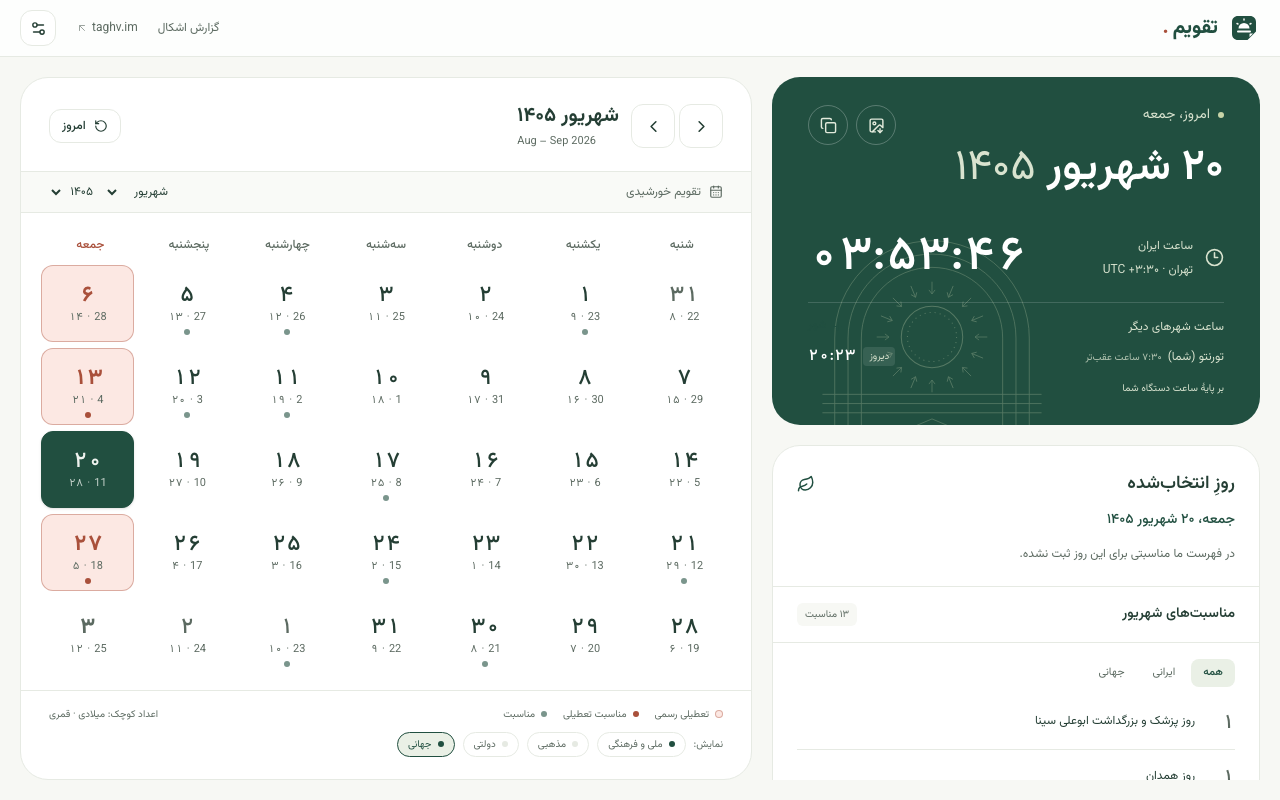
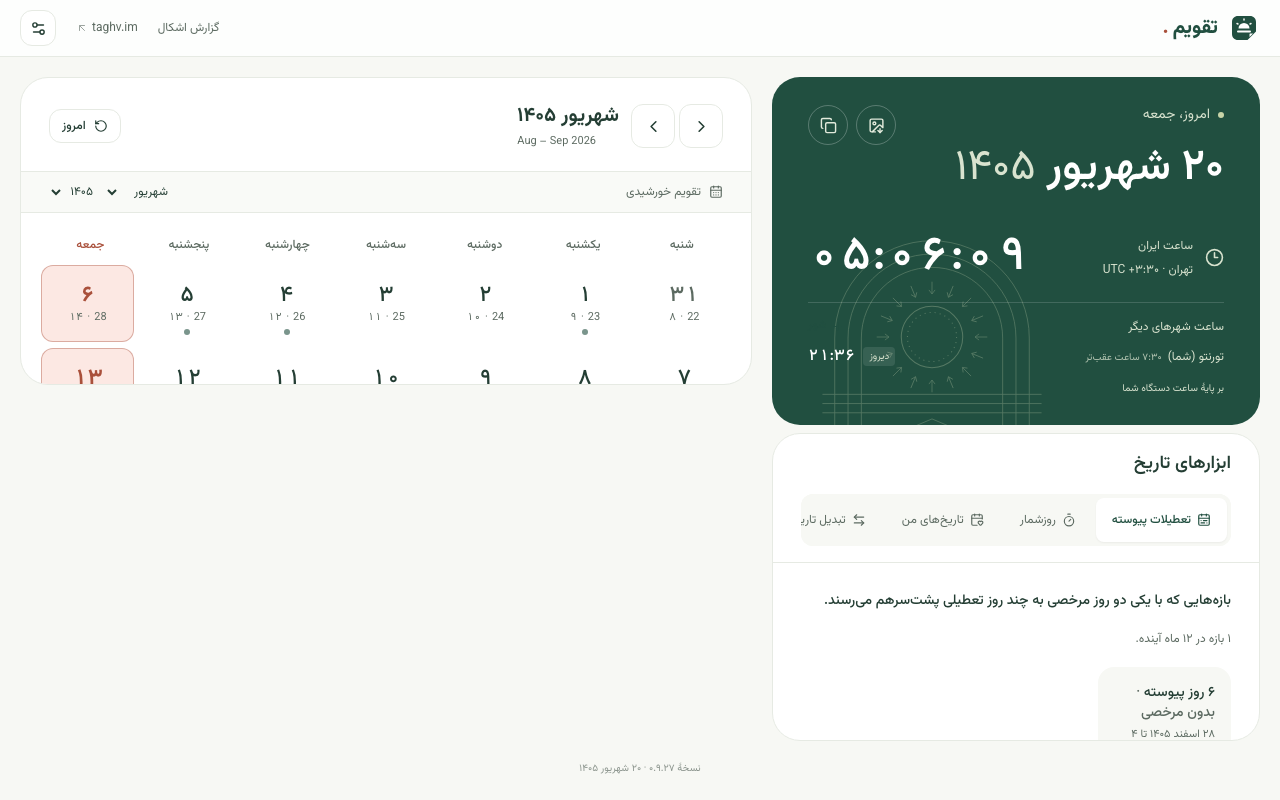
Give the extension's tools box both columns
Caught from the store screenshot the packaging script regenerated, not from a
report: the tools box went into the new tab as a third child of a two-column
grid, so it landed in the narrow column. The tab strip got 324px for the 726 it
needs, and four of the six tabs — تاریخهای من, تبدیل تاریخها, فاصلهٔ دو تاریخ,
محاسبهٔ سن — sat behind a horizontal scroll with nothing on screen to say so.
Measured, then fixed: the box spans both columns and all six are reachable.

The browser test now asserts no tab falls outside the strip's own box, which is
the check that would have caught this before the screenshot did.

Store screenshots regenerated with the tools box and the version footer in them,
since both are new to what a visitor sees.

diff --git a/extension/src/new-tab.tsx b/extension/src/new-tab.tsx
@@ -144,10 +144,15 @@ export function NewTab() {
           onJump={(year, month) => { followingToday.current = false; setView({ year, month, day: 1 }); }}
         />
         {/* The same tools box the site carries: nothing here touches a network, and the
-            bridges link is the only thing that leaves, to taghv.im by an absolute URL. */}
-        <ToolsPanel now={now} tab={tool} onTabChange={setTool} groups={preferences}
-          dates={dates} datesReady={datesReady} onDatesChange={commitDates}
-          bridgesHref="https://taghv.im/bridges" datesNotice={DATES_NOTICE_EXTENSION} />
+            bridges link is the only thing that leaves, to taghv.im by an absolute URL.
+            It spans BOTH columns. Dropped into the narrow one it got 324px for a tab
+            strip that needs 726, and four of the six tabs sat behind a scroll with
+            nothing on screen to say so. */}
+        <div className="lg:col-span-2">
+          <ToolsPanel now={now} tab={tool} onTabChange={setTool} groups={preferences}
+            dates={dates} datesReady={datesReady} onDatesChange={commitDates}
+            bridgesHref="https://taghv.im/bridges" datesNotice={DATES_NOTICE_EXTENSION} />
+        </div>
       </main>
       {/* Which build this is. Farjad asked for it: the store rolls updates out over
           hours, so «am I on the new one» is otherwise unanswerable from the page. */}

diff --git a/src/lib/changelog.ts b/src/lib/changelog.ts
@@ -1,6 +1,6 @@
 // ============================================================================
 // Source: src/lib/changelog.ts
-// Version: 0.11.4 — 2026-09-10
+// Version: 0.11.5 — 2026-09-10
 // Why: The release history and the shortlist of what is being considered next,
 //      as data. Rendered by /changelog; nothing else reads it.
 //      WRITTEN FOR VISITORS, NOT FOR US. Work that changes nothing a visitor can
@@ -37,6 +37,15 @@ export const CHANGE_LABELS: Record<ChangeKind, string> = {
 
 // Newest first. Add a release here in the same commit that ships it.
 export const RELEASES: Release[] = [
+  {
+    version: '0.9.28',
+    at: '2026-09-10T22:20:00-04:00',
+    status: 'ready',
+    title: 'جای ابزارها در افزونه',
+    changes: [
+      { kind: 'fixed', text: 'جعبهٔ ابزار در افزونه توی ستون باریک افتاده بود و چهار تب از شش تب پشت اسکرول پنهان میشد. حالا کل عرض را میگیرد.' },
+    ],
+  },
   {
     version: '0.9.27',
     at: '2026-09-10T21:55:00-04:00',

diff --git a/tests/extension.spec.ts b/tests/extension.spec.ts
@@ -72,6 +72,17 @@ test("carries the same tools box, with its own separate list of dates", async ({
     await expect(page.getByRole("tab", { name })).toBeVisible();
   }
 
+  // …and every one of them reachable without scrolling. Dropped into the narrow
+  // column the strip got 324px for the 726 it needs, and four tabs sat behind a
+  // scroll with nothing on screen to say so.
+  const hidden = await page.locator('[role="tablist"]').evaluate((list) => {
+    const box = list.getBoundingClientRect();
+    return [...list.querySelectorAll('[role="tab"]')]
+      .filter((tab) => { const r = tab.getBoundingClientRect(); return r.left < box.left - 0.5 || r.right > box.right + 0.5; })
+      .map((tab) => tab.textContent?.trim());
+  });
+  expect(hidden).toEqual([]);
+
   // A tool that only computes: no network, so it works here exactly as on the site
   await page.getByRole("tab", { name: "محاسبهٔ سن" }).click();
   await expect(page.locator("#tools")).toBeVisible();
